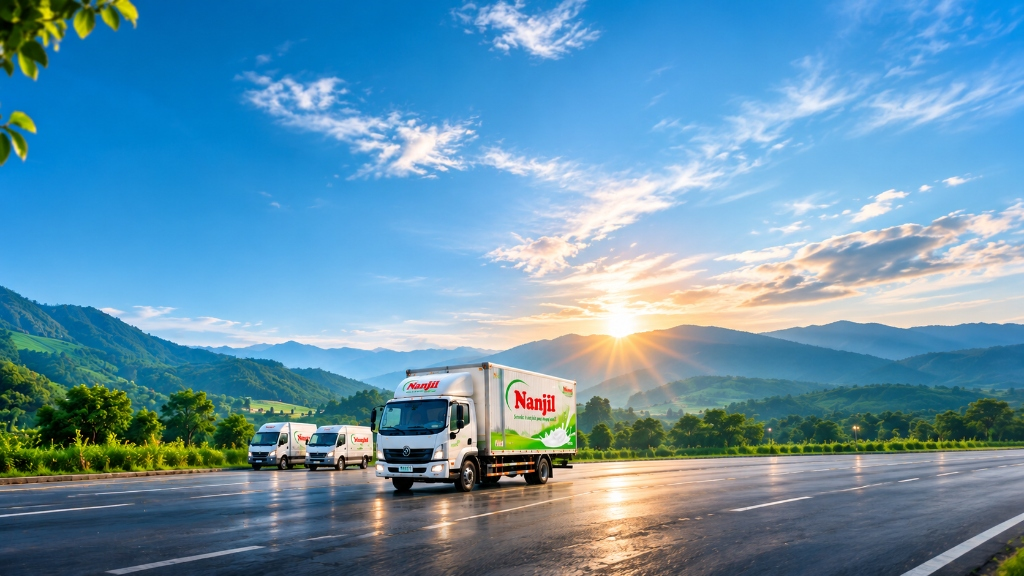
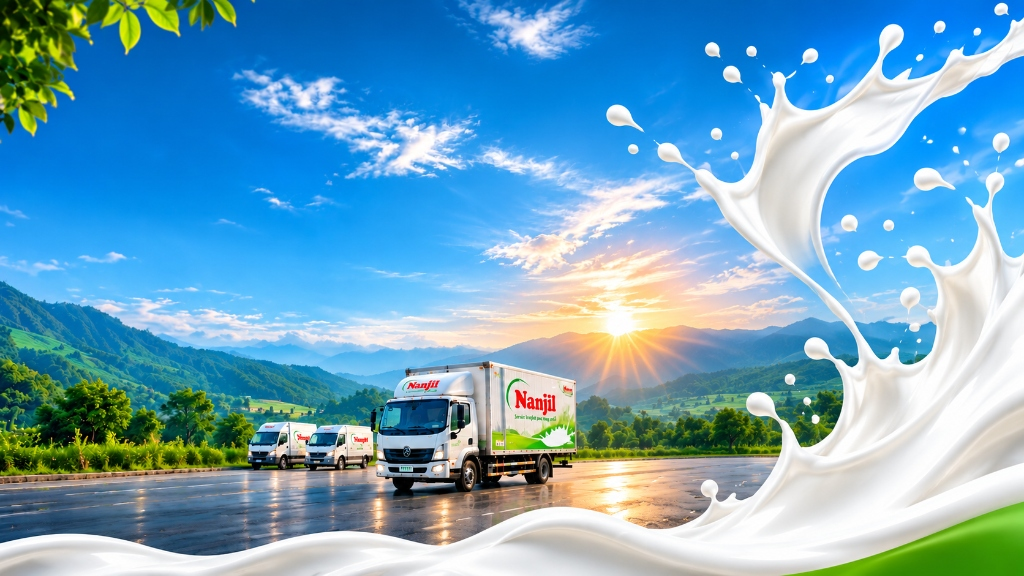
LOG

diff --git a/src/pages/login.tsx b/src/pages/login.tsx
@@ -99,7 +99,7 @@ function LoginPage() {
       <img
         src={loginHeroBg}
         alt="Nanjil Dairy Fleet Sunrise Highway"
-        className="absolute inset-0 h-full w-full object-cover object-center lg:object-[32%_center] select-none pointer-events-none"
+        className="absolute inset-0 h-full w-full object-cover object-center select-none pointer-events-none"
       />
 
       {/* Contrast Scrims for Left Hero Legibility */}
@@ -107,62 +107,12 @@ function LoginPage() {
         className="absolute inset-0 pointer-events-none"
         style={{
           background:
-            "linear-gradient(105deg, rgba(6, 26, 48, 0.56) 0%, rgba(10, 42, 66, 0.28) 42%, rgba(255, 255, 255, 0) 68%)",
-        }}
-      />
-      <div
-        className="hidden lg:block absolute inset-x-0 bottom-0 h-36 pointer-events-none"
-        style={{
-          background: "linear-gradient(to top, rgba(4, 15, 28, 0.72) 0%, rgba(4, 15, 28, 0) 100%)",
+            "linear-gradient(105deg, rgba(6, 26, 48, 0.52) 0%, rgba(10, 42, 66, 0.24) 44%, rgba(255, 255, 255, 0) 70%)",
         }}
       />
 
-      {/* ── Right Organic Cream & Dairy Green Curve Overlay (Desktop) ── */}
-      <svg
-        viewBox="0 0 1440 900"
-        preserveAspectRatio="none"
-        aria-hidden="true"
-        className="hidden lg:block absolute inset-0 h-full w-full pointer-events-none z-[1]"
-      >
-        <defs>
-          <linearGradient id="nanjilCreamWave" x1="0%" y1="0%" x2="100%" y2="100%">
-            <stop offset="0%" stopColor="#F5FBF3" stopOpacity="0.92" />
-            <stop offset="50%" stopColor="#FFFFFF" stopOpacity="0.98" />
-            <stop offset="100%" stopColor="#E6F4E1" stopOpacity="0.96" />
-          </linearGradient>
-          <linearGradient id="nanjilGreenSplash" x1="0%" y1="0%" x2="100%" y2="100%">
-            <stop offset="0%" stopColor="#72CA3C" />
-            <stop offset="55%" stopColor="#46AD33" />
-            <stop offset="100%" stopColor="#1B7D2A" />
-          </linearGradient>
-          <linearGradient id="nanjilMilkRibbon" x1="0%" y1="0%" x2="0%" y2="100%">
-            <stop offset="0%" stopColor="#FFFFFF" stopOpacity="0.95" />
-            <stop offset="100%" stopColor="#E8F5E3" stopOpacity="0.85" />
-          </linearGradient>
-        </defs>
-
-        {/* Sweeping soft cream-white wave dividing hero highway from login card zone */}
-        <path
-          d="M 1030 0 C 905 165, 975 385, 860 585 C 780 725, 710 830, 620 900 L 1440 900 L 1440 0 Z"
-          fill="url(#nanjilCreamWave)"
-        />
-
-        {/* Upper-right vibrant dairy leaf green wave behind card top-right */}
-        <path
-          d="M 1440 0 L 1440 620 C 1390 480, 1345 340, 1215 245 C 1105 165, 1085 65, 1170 0 Z"
-          fill="url(#nanjilGreenSplash)"
-          opacity="0.92"
-        />
-
-        {/* Glossy white milk swirl highlight along top-right of card */}
-        <path
-          d="M 1365 65 C 1335 120, 1375 180, 1410 235 C 1392 170, 1395 110, 1440 60 C 1415 45, 1385 45, 1365 65 Z"
-          fill="url(#nanjilMilkRibbon)"
-        />
-      </svg>
-
-      {/* Mobile top gradient wash so mobile login looks crisp too */}
-      <div className="lg:hidden absolute inset-0 bg-gradient-to-b from-slate-900/55 via-slate-900/35 to-[#eef7eb]/95 pointer-events-none z-[1]" />
+      {/* Mobile wash for form legibility */}
+      <div className="lg:hidden absolute inset-0 bg-gradient-to-b from-slate-900/35 via-slate-900/20 to-white/60 pointer-events-none z-[1]" />
 
       {/* ── LEFT HERO COLUMN (Desktop) ── */}
       <div className="hidden lg:flex flex-col justify-between relative z-10 w-[56%] xl:w-[58%] px-10 xl:px-14 py-9 xl:py-11">
@@ -241,7 +191,7 @@ function LoginPage() {
           initial={{ opacity: 0 }}
           animate={{ opacity: 1 }}
           transition={{ delay: 0.4 }}
-          className="flex items-center gap-7"
+          className="inline-flex items-center gap-6 px-4 py-2.5 rounded-2xl bg-slate-900/55 backdrop-blur-md border border-white/20 shadow-lg w-fit"
         >
           {stats.map((s) => (
             <div key={s.label} className="flex items-center gap-2.5">
@@ -264,7 +214,7 @@ function LoginPage() {
           className="w-full max-w-[410px]"
         >
           {/* Floating White Card */}
-          <div className="bg-white rounded-[28px] border border-white shadow-[0_24px_60px_-15px_rgba(12,48,20,0.22)] p-7 sm:p-9">
+          <div className="95 backdrop-blur-md rounded-[28px] border border-white shadow-[0_24px_60px_-15px_rgba(12,48,20,0.28)] p-7 sm:p-9">
             {/* Centered Card Header & Nanjil Logo */}
             <div className="text-center mb-6">
               <div className="flex justify-center mb-3.5">
@@ -380,15 +330,11 @@ function LoginPage() {
               </button>
             </form>
 
-            <div className="mt-5 flex items-center justify-center gap-1.5 text-[11px] font-medium text-slate-500">
-              <ShieldCheck className="h-3.5 w-3.5 text-[#167A2E]" />
+            <div className="mt-5 flex items-center justify-center gap-1.5 text-[11px] font-medium text-black">
+              <ShieldCheck className="h-3.5 w-3.5 text-[#000000]" />
               <span>Secure sign in · Nanjil Fleet Operations</span>
             </div>
           </div>
-
-          <p className="mt-4 text-center text-xs font-medium text-slate-500">
-            v1.4.2 · All rights reserved
-          </p>
         </motion.div>
       </div>
     </div>
